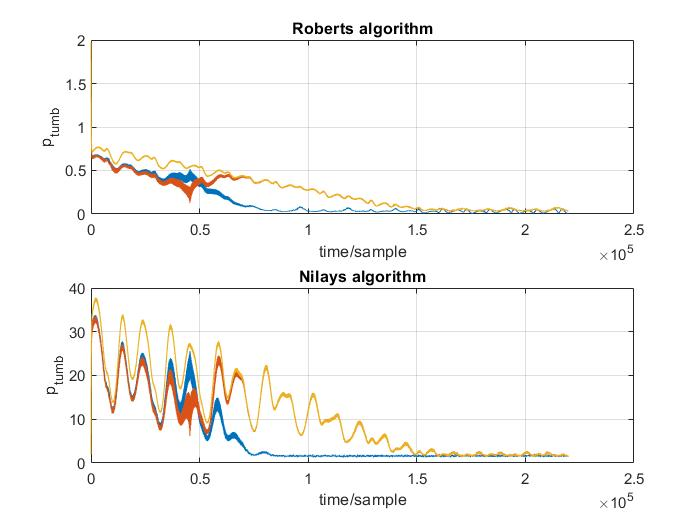
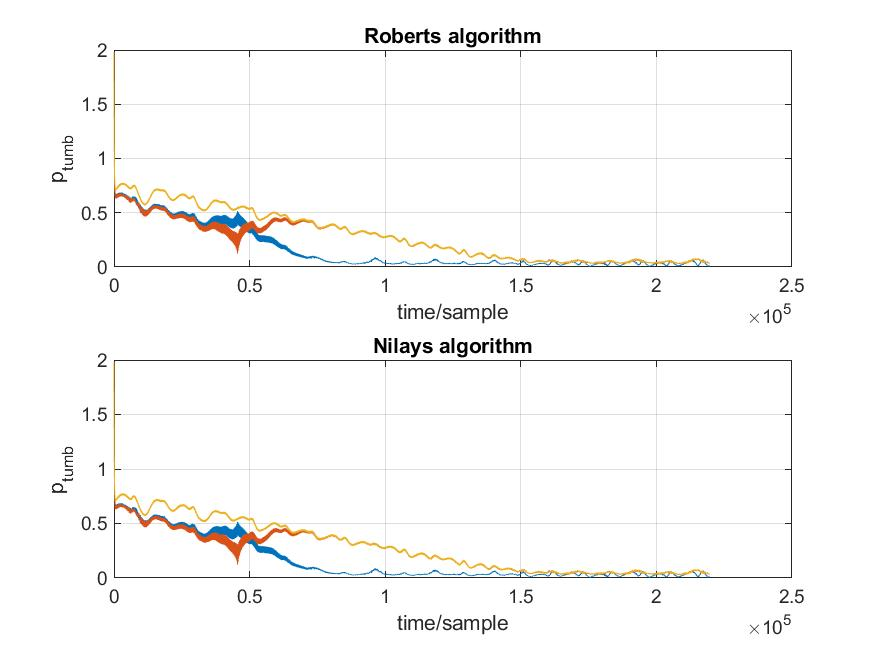
fix mistake - passing b_dot_norm now, initialize t_on s_on to zero every loop

diff --git a/detumble_bdot/detumble_algo.c b/detumble_bdot/detumble_algo.c
@@ -84,7 +84,7 @@ double alpha = 0.01;
 vector_t step5_tumbleParam(vector_t b_dot_norm) 
 {
 	// verify on MSP432: check if it works, the static implemenation
-	static vector_t p_tumb = {2,2,2};
+	static vector_t p_tumb = {1.98,1.98,1.98};
 	static vector_t b_dot_old = {0,0,0};
 	
 	if (b_dot_old.x != b_dot_norm.x || b_dot_old.y != b_dot_norm.y || b_dot_old.z != b_dot_norm.z) {
@@ -105,19 +105,19 @@ double detumble_p_bar_low = 0.075;
  * input: p_tumb
  * output: c_tumble
  */
-void step6_countUpdate(vector_t p_tumb, int* detumble_count_detumb, int* detumble_count_tumb)
+void step6_countUpdate(vector_t b_dot_norm, int* detumble_count_detumb, int* detumble_count_tumb)
 {
 	// static int detumble_count_detumb = 0;
 	// static int detumble_count_tumb = 0;
 
-	if (p_tumb.x <= detumble_p_bar_low && p_tumb.y <= detumble_p_bar_low && p_tumb.z <= detumble_p_bar_low) {
+	if (b_dot_norm.x <= detumble_p_bar_low && b_dot_norm.y <= detumble_p_bar_low && b_dot_norm.z <= detumble_p_bar_low) {
 		*detumble_count_detumb = *detumble_count_detumb + 1;
 	}
 	else {
 		*detumble_count_detumb = 0;
 	}
 
-	if (p_tumb.x >= detumble_p_bar_upp || p_tumb.y >= detumble_p_bar_upp || p_tumb.z >= detumble_p_bar_upp) {
+	if (b_dot_norm.x >= detumble_p_bar_upp || b_dot_norm.y >= detumble_p_bar_upp || b_dot_norm.z >= detumble_p_bar_upp) {
 		*detumble_count_tumb = *detumble_count_tumb + 1;
 	}
 	else {
@@ -134,7 +134,7 @@ double t_conf_detumb = 3600;
  */
 int step7_assessRotation(int c_detumb, int c_tumb) //, vector_t b_cur, vector_t b_dot_norm, vector_t* t_on, vector_t* s_on)
 {
-	int chi_tumb;
+	int chi_tumb = 0;
 	if (c_tumb*Tc >= t_conf_tumb) {
 		chi_tumb = 1;
 		/*
@@ -147,6 +147,7 @@ int step7_assessRotation(int c_detumb, int c_tumb) //, vector_t b_cur, vector_t 
 		chi_tumb = 0;
 		//step10_hold();
 	}
+	return chi_tumb;
 }
 
 // TODO: Step8 to be implemented on OBC
@@ -227,6 +228,14 @@ void controlLoop(vector_t b1_raw, vector_t b2_raw, vector_t* s_on, vector_t* t_o
 		static int c_tumb = 0;
 		static int c_detumb = 0;
 
+		// since old values are not used, might as well clear them to avoid garbage when actuation period is zero
+		t_on->x = 0;
+		t_on->y = 0;
+		t_on->z = 0;
+		s_on->x = 0;
+		s_on->y = 0;
+		s_on->z = 0;
+
 		// use the readings in the algo
 		step3_biasCalc(0.5, b1_raw, b1_bias, 0.5, b2_raw, b2_bias, &b_cur, &b_cur_norm);
 
@@ -234,7 +243,7 @@ void controlLoop(vector_t b1_raw, vector_t b2_raw, vector_t* s_on, vector_t* t_o
 		b_prev = b_cur;
 		b_prev_norm = b_cur_norm;
 
-		*p_tumb = step5_tumbleParam(b_dot);
+		*p_tumb = step5_tumbleParam(b_dot_norm);
 		step6_countUpdate(*p_tumb, &c_detumb, &c_tumb);
 
 		if (step7_assessRotation(c_detumb, c_tumb) > 0) {

diff --git a/detumble_bdot/plot_detumble.m b/detumble_bdot/plot_detumble.m
@@ -1,6 +1,7 @@
 %% plot detumble parameter for verifying the C and matlab detumble algorithms
-readMatrix_n = csvread('data4test_Out.csv', 1, 0);
-readMatrix_r = csvread('data4test_01.csv', 1, 0);
+
+readMatrix_r = csvread('data4test_02_in.csv', 1, 0);
+readMatrix_n = csvread('data4test_02_out.csv', 1, 0);
 
 plot_save1 = figure(1);
 subplot(2,1,1);
@@ -14,9 +15,10 @@ plot(readMatrix_n(:,13)); hold on; plot(readMatrix_n(:,14)); plot(readMatrix_n(:
 title('Nilays algorithm');
 xlabel('time/sample');
 ylabel('p_{tumb}');
+saveas(plot_save1,'cmp1','jpg');
 
 %%
-plot_save1 = figure(2);
+plot_save2 = figure(2);
 subplot(3,2,1);
 plot(readMatrix_r(:,10)); grid on;
 title('Roberts algorithm');
@@ -36,9 +38,10 @@ subplot(3,2,4);
 plot(readMatrix_n(:,11)); grid on;
 subplot(3,2,6);
 plot(readMatrix_n(:,12)); grid on;
+saveas(plot_save2,'cmp2','jpg');
 
 %% 
-plot_save2 = figure(3);
+plot_save3 = figure(3);
 subplot(3,2,1);
 plot(readMatrix_r(:,7)); grid on;
 title('Roberts algorithm');
@@ -58,3 +61,5 @@ subplot(3,2,4);
 plot(readMatrix_n(:,8)); grid on;
 subplot(3,2,6);
 plot(readMatrix_n(:,9)); grid on;
+
+saveas(plot_save3,'cmp3','jpg');
